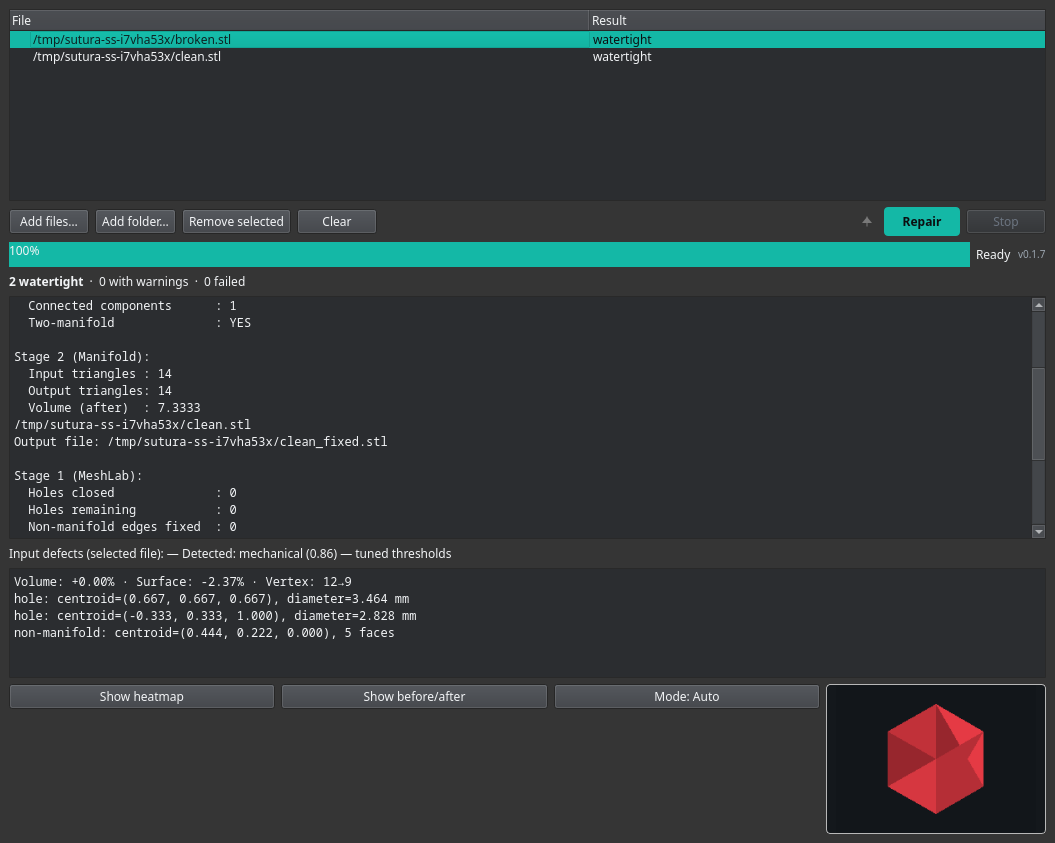
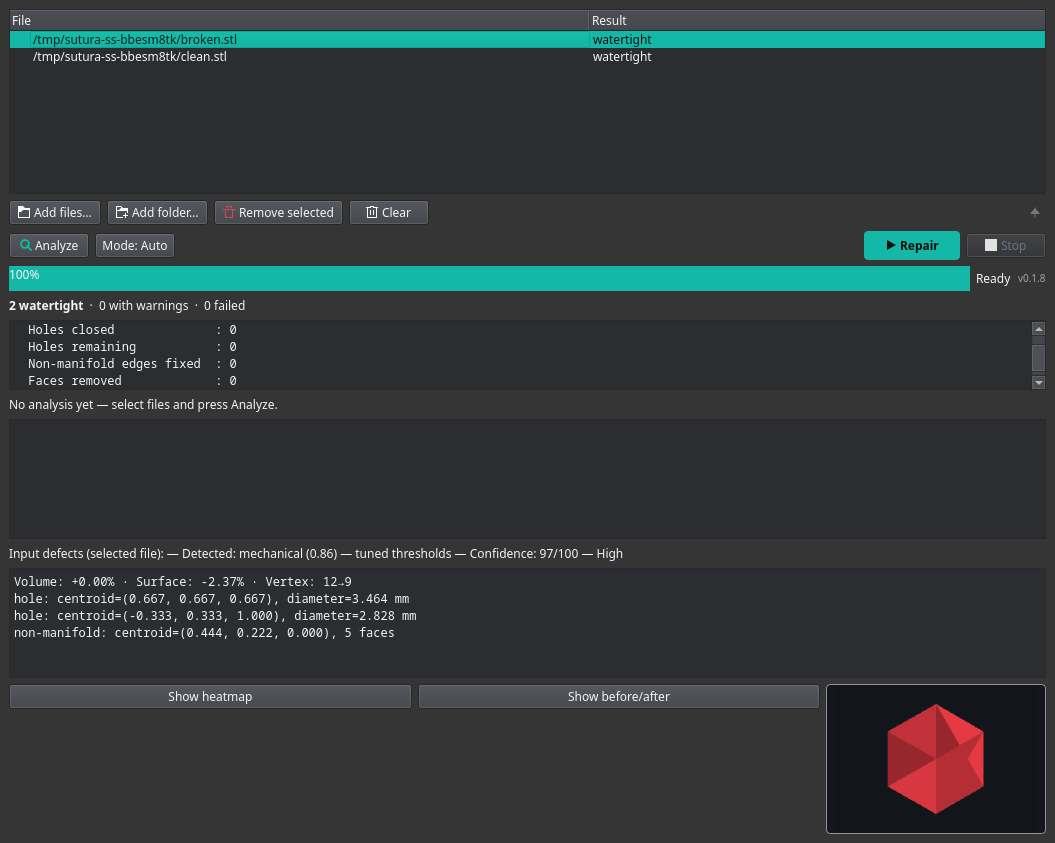
Document pre-repair analysis + mode suggestions in README/tr, refresh screenshots (v0.1.9, unreleased)
- README.md/tr.md: new "Pre-repair analysis" / "Onarım öncesi analiz" section (validate + dry-run equivalent, estimated_confidence + warning, mode suggestions — explicitly no automatic mode change)
- Feature Status GUI row ~85% -> ~87%
- scripts/generate_screenshots.py: run_analyze() added, third image (analyze-panel.png) now produced
- assets/: screenshot.png and defect-panel.png regenerated (new button layout), analyze-panel.png added

diff --git a/scripts/generate_screenshots.py b/scripts/generate_screenshots.py
@@ -18,6 +18,10 @@ Outputs (overwrites in assets/):
   screenshot.png     - main GUI: batch summary strip + defect panel, a
                        broken mesh selected (shows mm diameters + type)
   defect-panel.png   - defect detail panel with the selected file's defects
+  analyze-panel.png  - pre-repair analysis: the new 3-row button layout plus
+                       the Analysis pane (type/mode/tuning, defect counts,
+                       watertight verdict, estimated confidence + warning,
+                       mode suggestions)
 
 The meshes used are generated into a temp dir and removed afterwards.
 """
@@ -122,6 +126,42 @@ def run(m, files, size, select_broken, out_path, show_heatmap=False):
     print('wrote', out_path)
 
 
+def run_analyze(m, files, size, select_broken, out_path):
+    """Drive the pre-repair Analyze flow and grab the window once it is done.
+
+    The Analysis pane shows per-file results; we then switch the selection to
+    the broken mesh (index 0) so the screenshot captures a meaningful case
+    with suggestions and an estimated confidence estimate."""
+    app = QApplication.instance() or QApplication([])
+    m.apply_dark_theme(app)
+    win = m.MainWindow()
+    win.resize(*size)
+    win.show()
+    for f in files:
+        win._add_path(f)
+
+    done = {}
+
+    def poll():
+        if win.worker is None:
+            app.processEvents()
+            if select_broken:
+                win.tree.setCurrentItem(win.tree.topLevelItem(0))
+                app.processEvents()
+            win.grab().save(out_path)
+            done['ok'] = True
+            app.quit()
+        else:
+            QTimer.singleShot(200, poll)
+
+    win.analyze()
+    QTimer.singleShot(200, poll)
+    app.exec()
+    if not done.get('ok'):
+        raise RuntimeError('analyze screenshot render did not finish: %s' % out_path)
+    print('wrote', out_path)
+
+
 def main():
     os.environ['SUTURA'] = _repo_cli_wrapper()
     m = load_gui()
@@ -132,6 +172,8 @@ def main():
             out_path=os.path.join(ASSETS, 'screenshot.png'))
         run(m, files, PANEL_SIZE, select_broken=True, show_heatmap=True,
             out_path=os.path.join(ASSETS, 'defect-panel.png'))
+        run_analyze(m, files, PANEL_SIZE, select_broken=True,
+                    out_path=os.path.join(ASSETS, 'analyze-panel.png'))
     print('done')
 
 

diff --git a/README.tr.md b/README.tr.md
@@ -73,7 +73,7 @@ söyler.
 | STL onarımı (iki aşamalı) | ~%95 | VCG + manifold3d hattı, bozuk/düşmanca/işkence girdilerine karşı CI ile sağlamlaştırılmıştır. %100 değil: patolojik kendisiyle-kesişimler aşama 2'nin yeniden kurmasında yeniden şekillenebilir ve çok büyük delikler akıllı bir yeniden yapılandırma yerine düz bir yamayla kapatılır. |
 | 3MF çok nesneli | ~%90 | Her nesne bellekte bağımsız onarılır ve geri yazılır, böylece hiçbir nesne kaybolmaz. Bilinen sınırlar: nesne başına aşama 2 bilinçli olarak atlanır, bayt bayt özdeş nesneler tekilleştirilir ve katmanlı/yinelenen köşeli bir 3MF, dilimleyicilerin genellikle otomatik iyileştirdiği birkaç milimetre-altı çatlak tutabilir. |
 | Kusur tespiti (delik / non-manifold) | ~%90 | Stdlib+numpy, tek doğruluk kaynağı, temiz ve kırık küplerde birim testlerle doğrulanır. %100 değil: yalnızca girdi kusurlarını bildirir; binlerce mikro çatlaklı bir mesh'te kusur başına liste büyür ve CLI JSON'u, yalnızca çizim amaçlı dizin verisini içermez. |
-| GUI | ~%85 | Yerel Qt batch onarımı, sürükle & bırak, kusur paneli, ısı haritası, öncesi/sonrası karşılaştırma, onarım modu seçici, durum/sürüm satırı, i18n (EN/TR). Eksikler: CLI'yı ayrı bir süreç olarak çağırır (süreç içi ilerleme yok), yerel KDE dosya diyaloğu yalnızca sistem Qt'si PySide6'nınkiyle eşleştiğinde çalışır ve macOS Finder entegrasyonu yoktur. |
+| GUI | ~%87 | Yerel Qt batch onarımı, sürükle & bırak, kusur paneli, mod önerili onarım öncesi analiz, ısı haritası, öncesi/sonrası karşılaştırma, onarım modu seçici, durum/sürüm satırı, i18n (EN/TR). Eksikler: CLI'yı ayrı bir süreç olarak çağırır (süreç içi ilerleme yok), yerel KDE dosya diyaloğu yalnızca sistem Qt'si PySide6'nınkiyle eşleştiğinde çalışır ve macOS Finder entegrasyonu yoktur. |
 | CLI | ~%90 | Sabit bayraklar (`-o`, `--human`, `--defects`, `--diff`, `--mode`, `--dry-run`, `--version`), salt-okunur `validate` alt komutu, JSON raporları, batch özeti, çıkış kodları. `--human` raporu yalnızca İngilizcedir (yerelleştirme yalnızca GUI'yi ilgilendirir). |
 | Batch işleme | ~%90 | Dosya başına sonuçları ve bir özeti olan çok dosyalı onarım. Sert durdurma (Ctrl-C / Durdur) desteklenir; batch kaldığı yerden sürdürülemez ve başarısız bir dosya diğerlerini durdurmaz. |
 | Kusur ısı haritası | ~%80 | İsteğe bağlı CPU rasterizer (GL yok), alt süreçte çalışır, GUI'yi asla çökertmez. Bilinçli olarak yalnızca CPU: ekransız sistemlerde ekran dışı OpenGL çağrıları segfault verir, bu yüzden tam GL gölgeleme yerine üç noktalı ışık modeliyle düz gölgelenir ve çok nesneli 3MF'de yalnızca ilk nesne çizilir. |
@@ -329,6 +329,22 @@ kalan dosyaları iptal edilmiş olarak işaretler. Sürükle & bırak, yerel Way
 oturumlarında çalışır (GUI bir Qt uygulamasıdır, XWayland değildir). GUI,
 kendi koyu Fusion temasıyla gelir (teal vurgu rengi), böylece sistem masaüstü
 temasından bağımsız olarak her platformda ve Qt sürümünde aynı görünür.
+
+#### Onarım öncesi analiz
+
+![Onarım öncesi analiz](assets/analyze-panel.png)
+
+Onarımdan önce **Analiz Et**, CLI'daki `validate` ve `--dry-run` ile aynı
+salt-okunur kontrolleri her dosya için hiçbir şey yazmadan çalıştırır:
+tespit edilen türü ve onarım modunu, eşik ayarını, girdinin delik /
+self-intersection / non-manifold / döküntü sayılarını, watertight ön-kararını
+ve bir **tahmini güven** değerini bildirir
+(`Estimated confidence: X/100 (Label) — actual result may differ after
+repair`, çünkü onarım sonrası sinyaller henüz bilinmiyor). Altında birkaç
+**mod önerisi** listeler (ör. tarama kaynaklı delikler için agresif/extreme
+adımı veya extreme'un küçük parçaları silebileceğine dair bir çekince).
+Öneriler **yalnızca bilgilendirme amaçlıdır ve modu asla otomatik
+değiştirmez — karar kullanıcıda kalır.**
 
 #### Kusur detay paneli
 

diff --git a/README.md b/README.md
@@ -71,7 +71,7 @@ Sutura and where you should still double-check the output.
 | STL repair (two-stage) | ~95% | The VCG + manifold3d pipeline is CI-hardened against malformed/adversarial/torture inputs. Not 100%: pathological self-intersections can be reshaped by the stage-2 rebuild, and very large holes are closed with a flat patch, not a smart reconstruction. |
 | 3MF multi-object | ~90% | Every object is repaired independently in memory and written back, so no object is lost. Known limits: per-object stage 2 is deliberately skipped, byte-identical objects are deduplicated, and a layered/duplicated-vertex 3MF can keep a few sub-millimetre cracks that slicers usually auto-heal. |
 | Defect detection (holes / non-manifold) | ~90% | Stdlib+numpy, single source of truth, unit-tested on clean and broken cubes. Not 100%: it reports input defects only; on a mesh with thousands of micro-cracks the per-defect list gets large, and the CLI JSON omits index data (rendering-only). |
-| GUI | ~85% | Native Qt batch repair, drag & drop, defect panel, heatmap, before/after comparison, repair-mode picker, status/version row, i18n (EN/TR). Gaps: it shells out to the CLI (no in-process progress), the native KDE file dialog only works when the system Qt matches PySide6's, and there is no macOS Finder integration. |
+| GUI | ~87% | Native Qt batch repair, drag & drop, defect panel, pre-repair analysis with mode suggestions, heatmap, before/after comparison, repair-mode picker, status/version row, i18n (EN/TR). Gaps: it shells out to the CLI (no in-process progress), the native KDE file dialog only works when the system Qt matches PySide6's, and there is no macOS Finder integration. |
 | CLI | ~90% | Stable flags (`-o`, `--human`, `--defects`, `--diff`, `--mode`, `--dry-run`, `--version`), the read-only `validate` subcommand, JSON reports, batch summary, exit codes. The `--human` report is English-only (localization is a GUI concern). |
 | Batch processing | ~90% | Multi-file repair with per-file results and a summary. Hard stops (Ctrl-C / Stop) are handled; the batch summary is not resumable and a failed file does not halt the rest. |
 | Defect heatmap | ~80% | On-demand CPU rasterizer (no GL), runs in a subprocess, never crashes the GUI. Deliberately CPU-only: offscreen OpenGL segfaults on headless systems, so it is flat-shaded with a three-point lighting model rather than full GL shading, and for multi-object 3MF it renders only the first object. |
@@ -324,6 +324,22 @@ marks the remaining files as cancelled. Drag & drop works on native Wayland
 sessions (the GUI is a Qt application, not XWayland). The GUI ships its own
 dark Fusion theme (teal accent), so it looks the same on every platform and
 Qt version regardless of the system desktop theme.
+
+#### Pre-repair analysis
+
+![Pre-repair analysis](assets/analyze-panel.png)
+
+Before repairing, **Analyze** runs the same read-only checks as the CLI's
+`validate` and `--dry-run` on every file, without writing anything: it
+reports the detected type and repair mode, the tuning status, the input's
+holes / self-intersections / non-manifold / debris counts, a watertight
+pre-verdict, and an **estimated confidence**
+(`Estimated confidence: X/100 (Label) — actual result may differ after
+repair`, because the post-repair signals are not known yet). Below that it
+lists a few **mode suggestions** (e.g. an aggressive/extreme step for
+scan-derived holes, or a caveat when extreme could delete small parts). The
+suggestions are **informational only and never change the mode
+automatically — the decision stays with the user.**
 
 #### Defect detail panel
 
